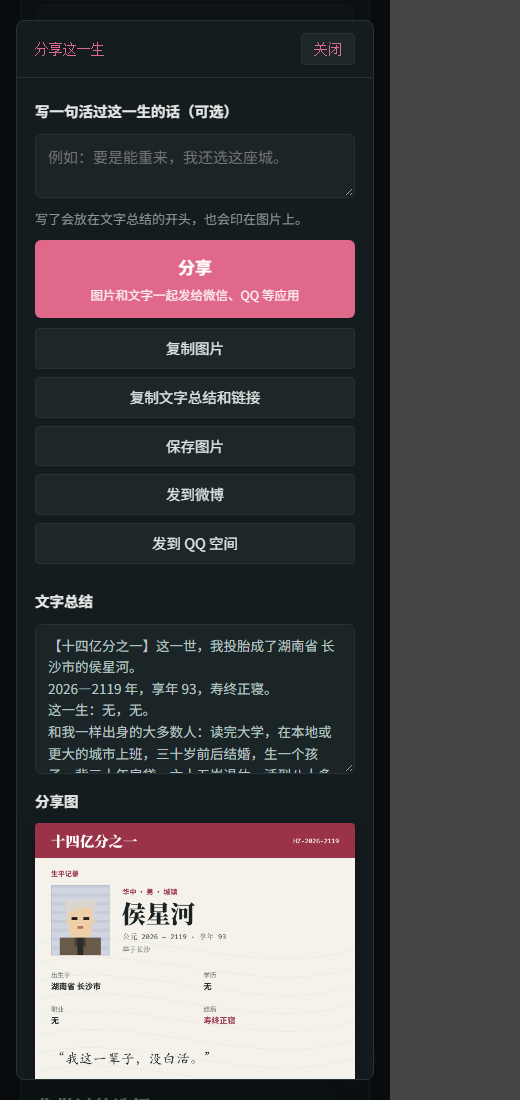
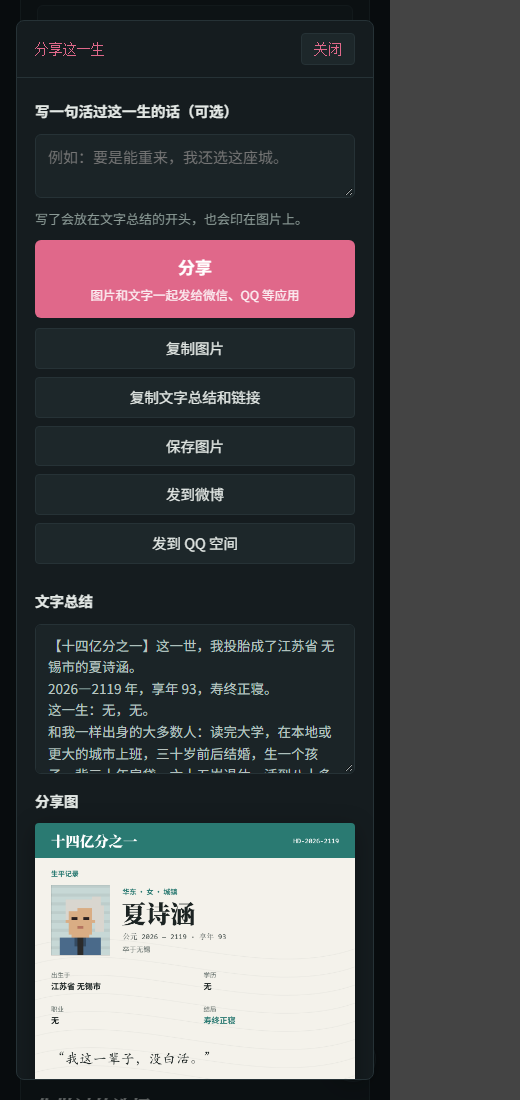
fix(share): offer X and Facebook in English

diff --git a/share/ui.js b/share/ui.js
@@ -772,6 +772,8 @@
     const text = JY.shareText(l, line, false);
     const enc = encodeURIComponent;
     return {
+      x: 'https://x.com/intent/tweet?url=' + enc(url) + '&text=' + enc(Array.from(text).slice(0, 200).join('')),
+      facebook: 'https://www.facebook.com/sharer/sharer.php?u=' + enc(url),
       weibo: 'https://service.weibo.com/share/share.php?url=' + enc(url) + '&title=' + enc(text),
       qzone: 'https://sns.qzone.qq.com/cgi-bin/qzshare/cgi_qzshare_onekey?url=' + enc(url) + '&title=' + enc(T.title) + '&summary=' + enc(text),
     };
@@ -799,7 +801,8 @@
       + '<button class="b" id="sh-copy" data-act="share-copy">' + t('复制文字总结和链接') + '</button>'
       + '<a class="b" id="sh-save" href="' + ui.share.png + '" download="' + esc(T.title + '-' + l.name) + '.png">' + t('保存图片') + '</a>'
       + (zh ? '<a class="b" id="sh-weibo" href="' + esc(links.weibo) + '" target="_blank" rel="noopener">' + t('发到微博') + '</a>'
-        + '<a class="b" id="sh-qzone" href="' + esc(links.qzone) + '" target="_blank" rel="noopener">' + t('发到 QQ 空间') + '</a>' : '')
+        + '<a class="b" id="sh-qzone" href="' + esc(links.qzone) + '" target="_blank" rel="noopener">' + t('发到 QQ 空间') + '</a>' : JY.LANG === 'en' ? '<a class="b" id="sh-x" href="' + esc(links.x) + '" target="_blank" rel="noopener">Share on X</a>'
+        + '<a class="b" id="sh-facebook" href="' + esc(links.facebook) + '" target="_blank" rel="noopener">Share on Facebook</a>' : '')
       + '</div><p class="hint" id="share-msg" aria-live="polite"></p>'
       + '<div class="lbl">' + t('文字总结') + '</div><textarea id="share-text" class="share-text" readonly rows="7">' + esc(text) + '</textarea>'
       + '<div class="lbl">' + t('分享图') + '</div><img class="card-img" id="share-img" src="' + ui.share.png + '" alt="' + esc(t('{name}的生平卡片', { name: l.name })) + '">'
@@ -820,6 +823,10 @@
     if (w) w.href = links.weibo;
     const q = document.getElementById('sh-qzone');
     if (q) q.href = links.qzone;
+    const x = document.getElementById('sh-x');
+    if (x) x.href = links.x;
+    const fb = document.getElementById('sh-facebook');
+    if (fb) fb.href = links.facebook;
   }
   function shareMsg(m) { const el = document.getElementById('share-msg'); if (el) el.textContent = m; }
   function copyShareText() {

diff --git a/1in1.4b/game.js b/1in1.4b/game.js
@@ -81,7 +81,7 @@ JY.GAME = {
     deathLine: (g, id, cause) => JY.ECON.deathLine(g, id, cause),
     flavorRepeat: true,
   },
-  version: '2.1.0',                 // 显示在全站顶栏（打包时写进页面的 vg:version）；发布新内容时改
+  version: '2.1.1',                 // 显示在全站顶栏（打包时写进页面的 vg:version）；发布新内容时改
   // 名帖精简：不显示“现居”“时代”（场景下面已经写了住哪儿），也不显示这些字段
   profile: { liveIn: false, era: false, hide: ['子女', '心结', '心愿', '志向', '遗愿'] },
   // 场景框：在家画家和家里人（还有宠物）；出门、上班、看病的那一年画那个地方和陪着的人

diff --git a/1in1.4b/lang/zh-TW/game.js b/1in1.4b/lang/zh-TW/game.js
@@ -82,7 +82,7 @@ JY.GAME = {
     deathLine: (g, id, cause) => JY.ECON.deathLine(g, id, cause),
     flavorRepeat: true,
   },
-  version: '2.1.0',                 // 显示在全站顶栏（打包时写进页面的 vg:version）；发布新内容时改
+  version: '2.1.1',                 // 显示在全站顶栏（打包时写进页面的 vg:version）；发布新内容时改
   // 名帖精简：不显示“现居”“时代”（场景下面已经写了住哪儿），也不显示这些字段
   profile: { liveIn: false, era: false, hide: ['子女', '心结', '心愿', '志向', '遗愿'] },
   // 场景框：在家画家和家里人（还有宠物）；出门、上班、看病的那一年画那个地方和陪着的人

diff --git a/CHANGELOG.md b/CHANGELOG.md
@@ -1,5 +1,9 @@
 # 更新日志
 
+## 十四亿分之一 v2.1.1（2026-11-22）
+
+- 英文分享弹窗增加 X、Facebook 链接分享入口，中文继续显示微博和 QQ 空间。编辑分享留言时同步更新平台链接。
+
 ## 十四亿分之一 v2.1.0（2026-11-21）
 
 - 年度重心按年龄精简。有未成年孩子且在工作时，默认多陪家人；之后55岁起默认锻炼。手动选择保留到该重心不再适龄。
